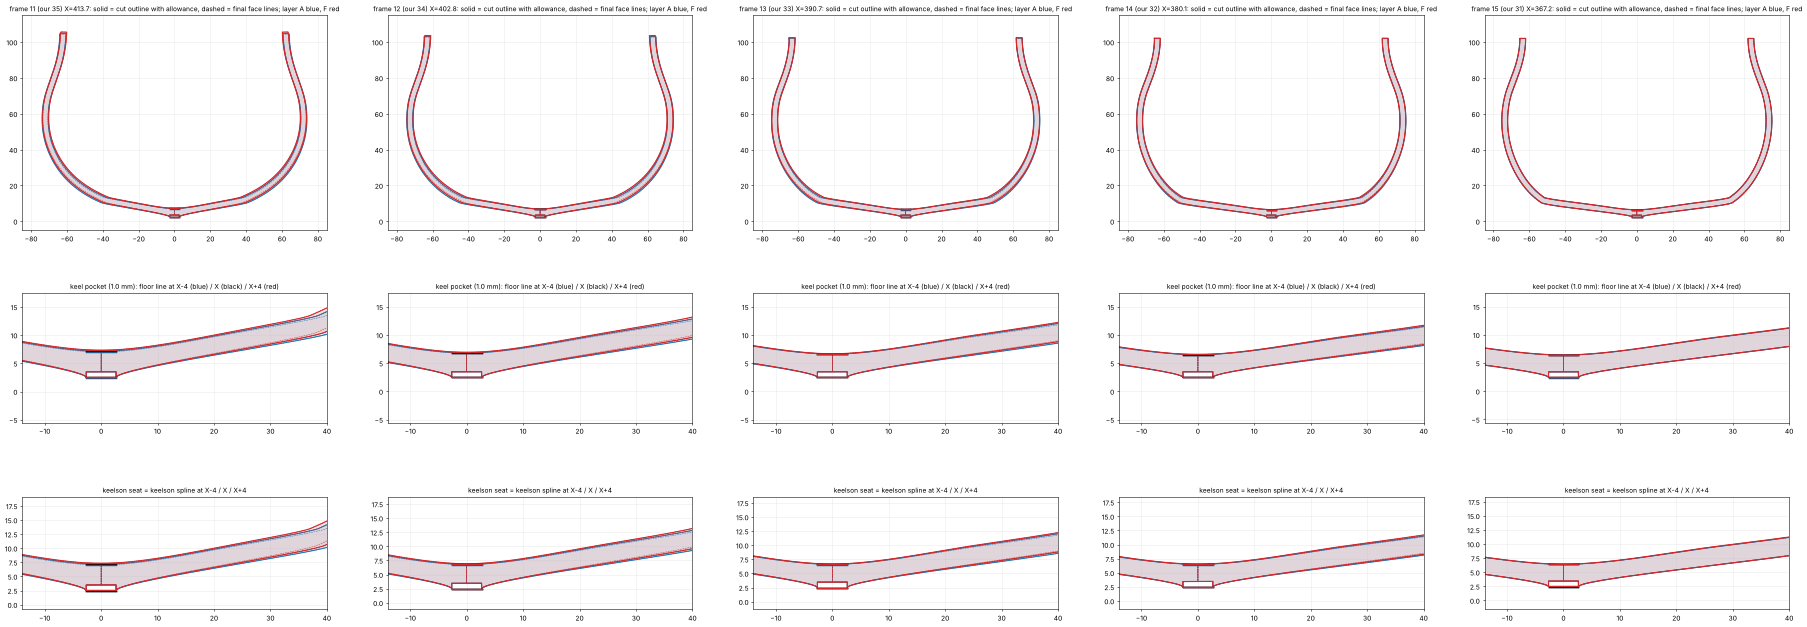
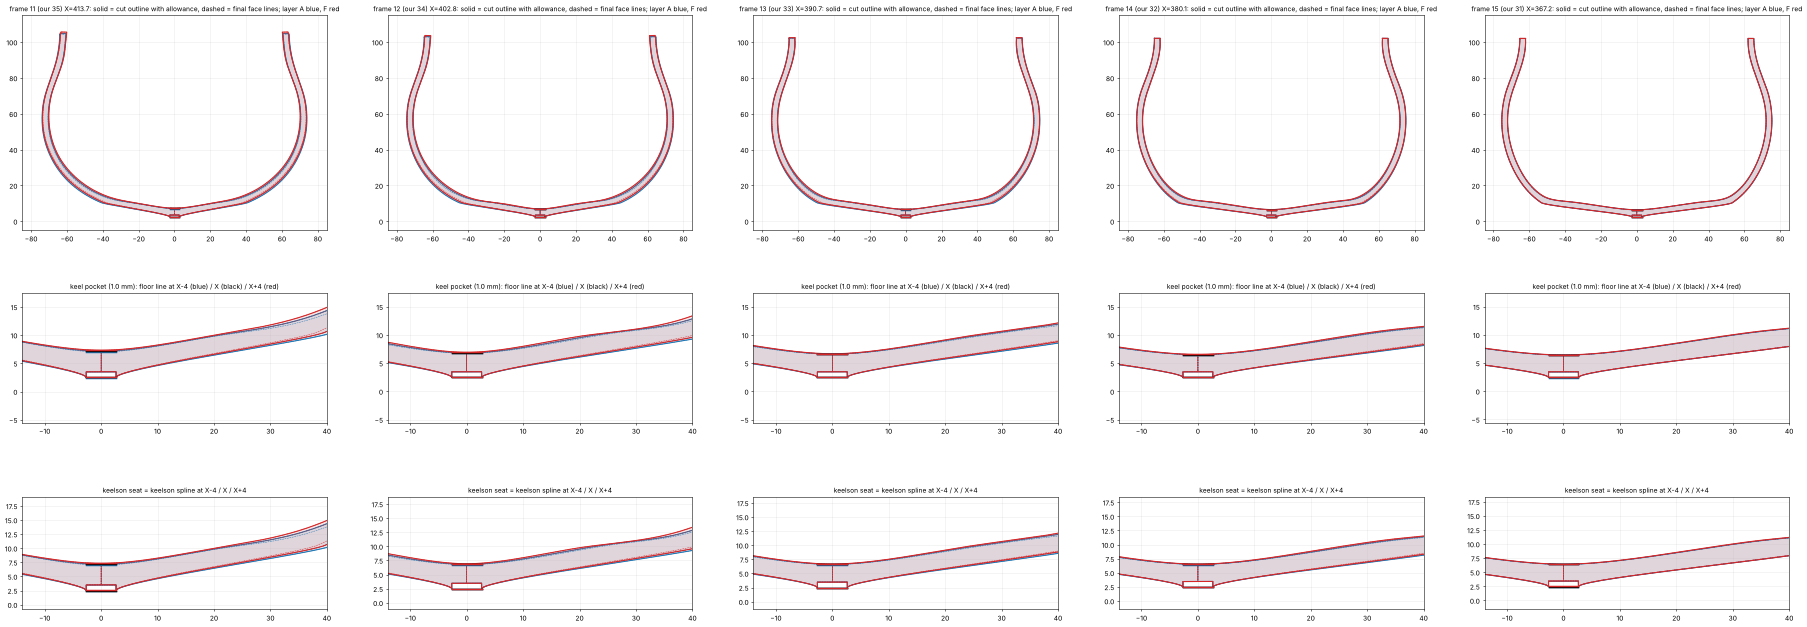
Inner line normalisation (smoothing spline) for the frames; driver for all 45 frames
Claude-Session: https://claude.ai/code/session_017HV2YHL4JdRTKuYXk76aAy

diff --git a/royal_caroline/py/frames_batch_2d.py b/royal_caroline/py/frames_batch_2d.py
@@ -6,7 +6,7 @@ from scipy.interpolate import splprep,splev
 from scipy.signal import savgol_filter
 import matplotlib; matplotlib.use('Agg'); import matplotlib.pyplot as plt
 import hull_new_sections as HN
-NOSTEP=__import__('os').environ.get('NOSTEP','0')=='1'; KB=2.65; T=3.2; PEN_LOW=2.5; PEN_UP=float(__import__("os").environ.get("PEN_UP","0.6"))
+INNER_SMOOTH=__import__('os').environ.get('INNER_SMOOTH','1')=='1'; NOSTEP=__import__('os').environ.get('NOSTEP','0')=='1'; KB=2.65; T=3.2; PEN_LOW=2.5; PEN_UP=float(__import__("os").environ.get("PEN_UP","0.6"))
 BB=json.load(open('data/step44_profiles.json')); XF=json.load(open('data/frames_X.json'))['X_mm']
 PP={k:Polygon(max(v,key=lambda q:Polygon(q).area)).buffer(0) for k,v in BB.items() if k not in('Split1[1]','Split1[2]','Boss-Extrude4[2]')}
 UB=unary_union(list(PP.values()))
@@ -32,6 +32,10 @@ def face_poly(Xf,Xlay):
     P=hull_line(Xf); k=int(np.argmin(np.abs(P[:,1]-(leg_bot+8)))); p0=P[k]; t0=(P[k+3]-P[k-3]); t0=t0/np.hypot(*t0)*11
     blend=herm(np.array([KB,leg_bot]),np.array([0,5.0]),p0,t0); O=np.vstack([blend,P[k+1:]]); O=O[np.argsort(O[:,1])]
     sm=np.c_[savgol_filter(O[:,0],11,3),savgol_filter(O[:,1],11,3)]; d_=np.gradient(sm,axis=0); d_/=np.hypot(*d_.T)[:,None]; m=np.c_[-d_[:,1],d_[:,0]]; I=O+m*T
+    if INNER_SMOOTH:     # normalise the inner line: smoothing spline through nodes every ~3 mm (removes the offset noise and the blend kink); deviation from the true offset stays < 0.15 mm
+        from scipy.interpolate import splprep as _sp,splev as _sv
+        sI=np.r_[0,np.cumsum(np.hypot(*np.diff(I,axis=0).T))]; nn=max(int(sI[-1]/3.0),8); tt=np.linspace(0,sI[-1],nn); Q=np.c_[np.interp(tt,sI,I[:,0]),np.interp(tt,sI,I[:,1])]
+        tk_,u_=_sp(Q.T,k=3,s=nn*0.012); y_,z_=_sv(np.linspace(0,1,len(I)),tk_); I_old=I; I=np.c_[y_,z_]; I[0]=I_old[0]; I[-1]=I_old[-1]
     kk=int(np.where((I[:,0]>8)&(I[:,1]>zt+2.5))[0][0]); Pj=I[kk]; Tj=I[kk+2]-I[kk-2]; Tj=Tj/np.hypot(*Tj)
     if NOSTEP:      # no step / legs at the keelson: the top is one smooth line from the keelson spline at the centre into the inner line
         Ps=np.array([0.0,ks_bot]); L=np.hypot(*(Pj-Ps)); sp=herm(Ps,np.array([1.0,0.0])*L*0.9,Pj,Tj*L*0.9); top=np.vstack([sp,I[kk+1:]])

diff --git a/royal_caroline/py/inner_line_check.py b/royal_caroline/py/inner_line_check.py
@@ -1,0 +1,24 @@
+import sys,numpy as np
+b=int(sys.argv[1]); sys.argv=[sys.argv[0]]
+import os; os.environ['NOSTEP']='1'
+import frames_batch_2d as F
+from scipy.interpolate import UnivariateSpline
+import json
+V2=json.load(open('data/keel_keelson_v2.json')); sK=UnivariateSpline(V2['keelson_spline']['X'],V2['keelson_spline']['Z'],k=3,s=0); kK=UnivariateSpline(V2['keel_surface']['X'],V2['keel_surface']['Z'],k=3,s=0)
+KT0=F.keel_levels
+F.keel_levels=lambda X:(lambda X:(float(kK(X)),(float(sK(X)),KT0(X)[1][1])))(min(X,526.0)); F.PEN_LOW=V2['depth']
+OUR=46-b; xc=F.XF[OUR-1]
+for X in (xc-4,xc,xc+4):
+    p,info=F.face_poly(X,X); I=info['I']; O=info['O']
+    d=np.gradient(I,axis=0); dd=np.gradient(d,axis=0); k=(d[:,0]*dd[:,1]-d[:,1]*dd[:,0])/(d[:,0]**2+d[:,1]**2)**1.5
+    sc=int((np.diff(np.sign(k[5:-5]))!=0).sum()); print('X %.1f inner line: %d points, curvature sign changes %d, max |kappa| %.3f'%(X,len(I),sc,abs(k[5:-5]).max()))
+    d=np.gradient(O,axis=0); dd=np.gradient(d,axis=0); k=(d[:,0]*dd[:,1]-d[:,1]*dd[:,0])/(d[:,0]**2+d[:,1]**2)**1.5
+    print('     outer line: curvature sign changes %d'%int((np.diff(np.sign(k[5:-5]))!=0).sum()))
+import matplotlib; matplotlib.use('Agg'); import matplotlib.pyplot as plt
+p,info=F.face_poly(xc,xc); I=info['I']; O=info['O']
+fig,ax=plt.subplots(1,3,figsize=(20,8))
+ax[0].plot(O[:,0],O[:,1],'b',lw=1); ax[0].plot(I[:,0],I[:,1],'r',lw=1); ax[0].set_aspect('equal'); ax[0].set_xlim(0,60); ax[0].set_ylim(20,115); ax[0].grid(alpha=.3)
+def kap(P): d=np.gradient(P,axis=0); dd=np.gradient(d,axis=0); return (d[:,0]*dd[:,1]-d[:,1]*dd[:,0])/(d[:,0]**2+d[:,1]**2)**1.5
+s=np.r_[0,np.cumsum(np.hypot(*np.diff(I,axis=0).T))]; ax[1].plot(s[5:-5],kap(I)[5:-5],'r'); ax[1].plot(np.r_[0,np.cumsum(np.hypot(*np.diff(O,axis=0).T))][5:-5],kap(O)[5:-5],'b'); ax[1].set_ylim(-.3,.3); ax[1].grid(alpha=.3); ax[1].set_title('curvature outer (blue) inner (red)')
+ax[2].plot(O[:,0],O[:,1],'b',lw=1); ax[2].plot(I[:,0],I[:,1],'r',lw=1); ax[2].set_aspect('equal'); ax[2].set_xlim(30,60); ax[2].set_ylim(55,110); ax[2].grid(alpha=.3)
+fig.savefig('/tmp/claude-0/x/inner1.png',dpi=50,bbox_inches='tight')

diff --git a/royal_caroline/py/frames_all_2d.py b/royal_caroline/py/frames_all_2d.py
@@ -1,0 +1,8 @@
+# runs frame_allowance_2d.py for all 45 frames in groups of 5 in ONE process (the hull loft is built once)
+import sys,runpy,os
+os.environ['NOSTEP']='1'; os.environ['INNER_SMOOTH']='1'
+groups=[[1,2,3,4,5],[6,7,8,9,10],[11,12,13,14,15],[16,17,18,19,20],[21,22,23,24,25],[26,27,28,29,30],[31,32,33,34,35],[36,37,38,39,40],[41,42,43,44,45]]
+for g in groups:
+    sys.argv=['frame_allowance_2d.py']+[str(x) for x in g]; print('== group',g,flush=True)
+    try: runpy.run_path('py/frame_allowance_2d.py',run_name='__main__')
+    except Exception as e: print('FAILED group',g,repr(e)[:200],flush=True)
